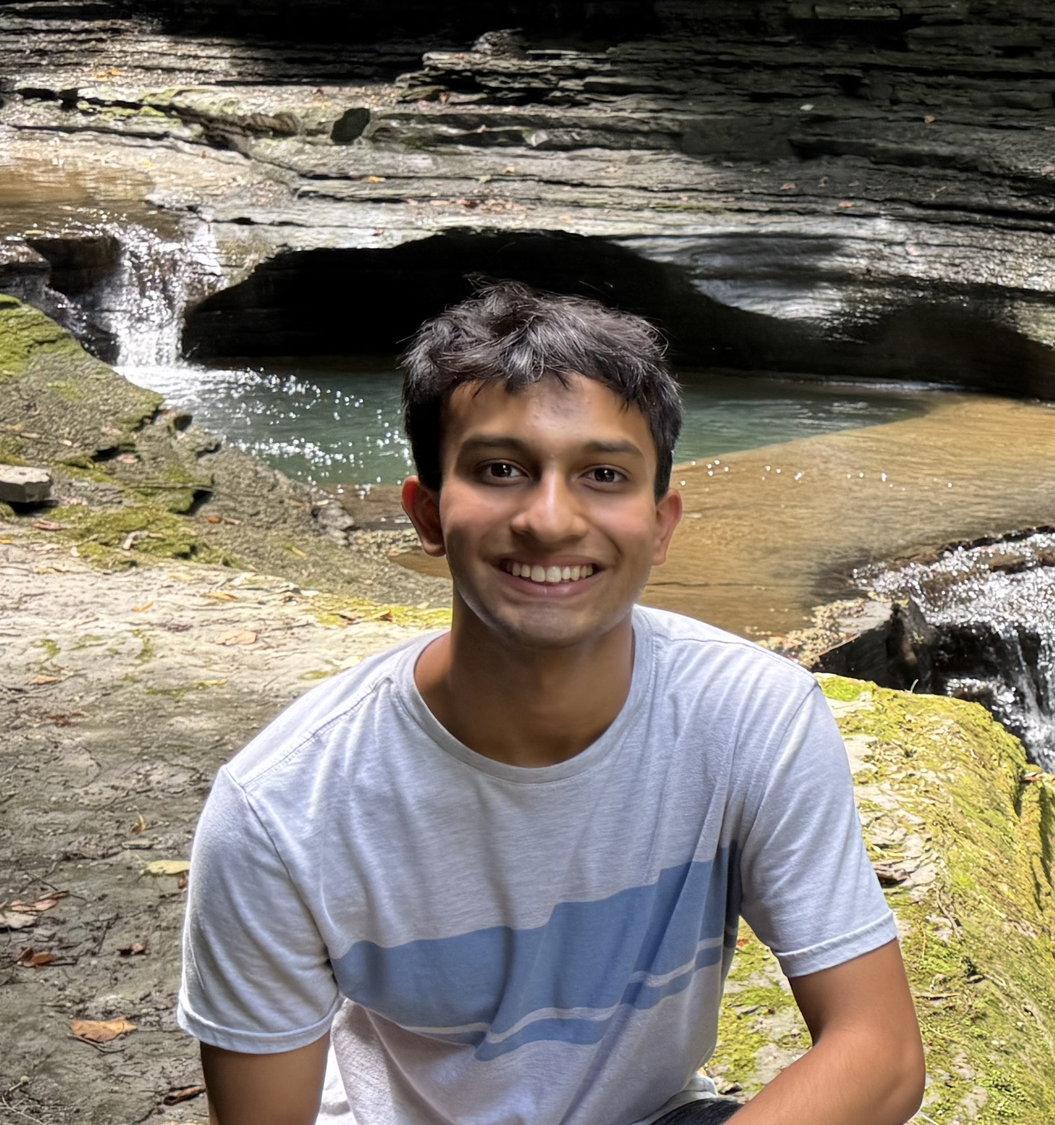
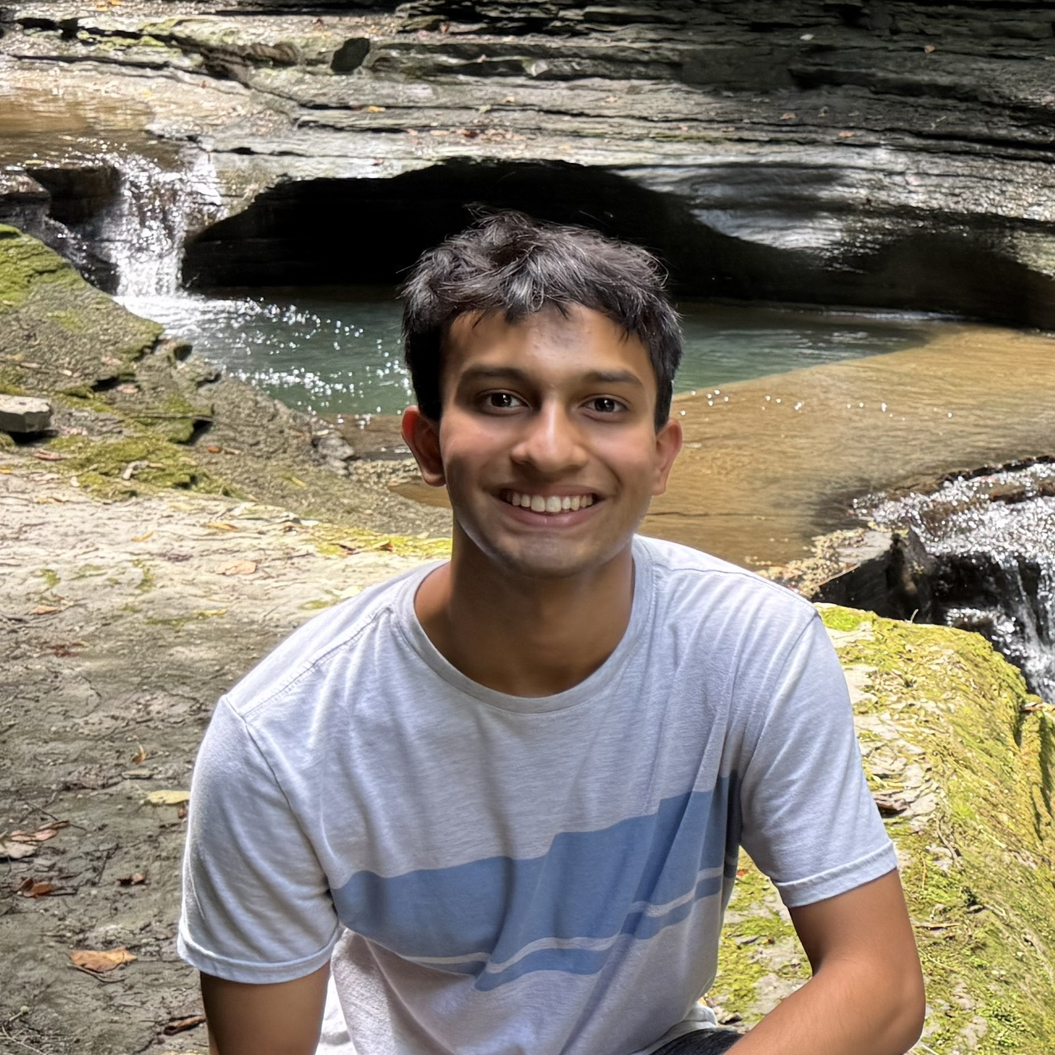
Square director images

diff --git a/_pages/about.md b/_pages/about.md
@@ -54,7 +54,7 @@ galleryD3:
         alt: "Image 2 description"
         title: "Image 2 title (optional)"
       - url: about
-        image_path: /assets/images/directors/chloe.jpg
+        image_path: /assets/images/crabso.png
         alt: "Image 3 description"
         title: "Image 3 title (optional)"
       # Add more images as needed  
